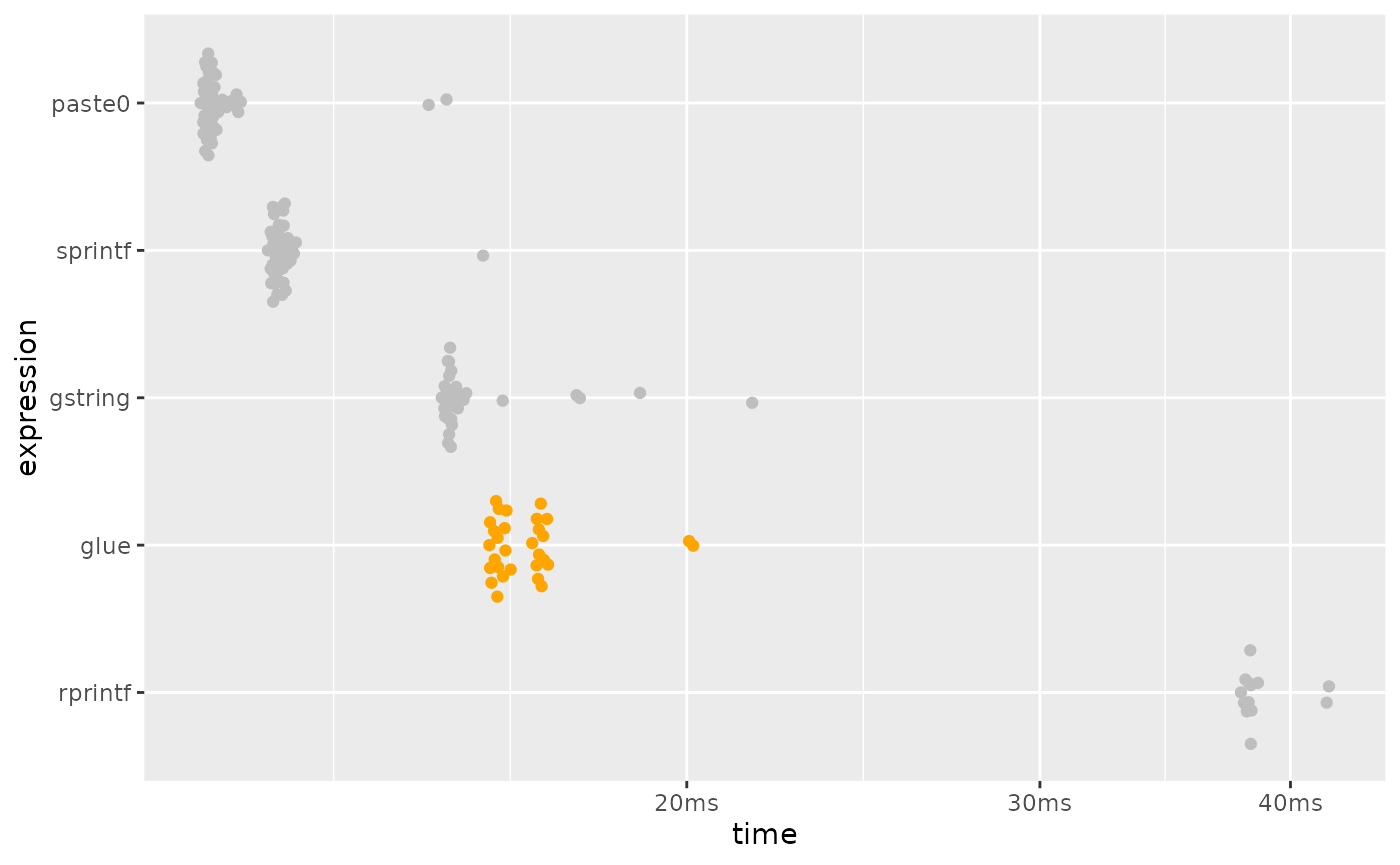
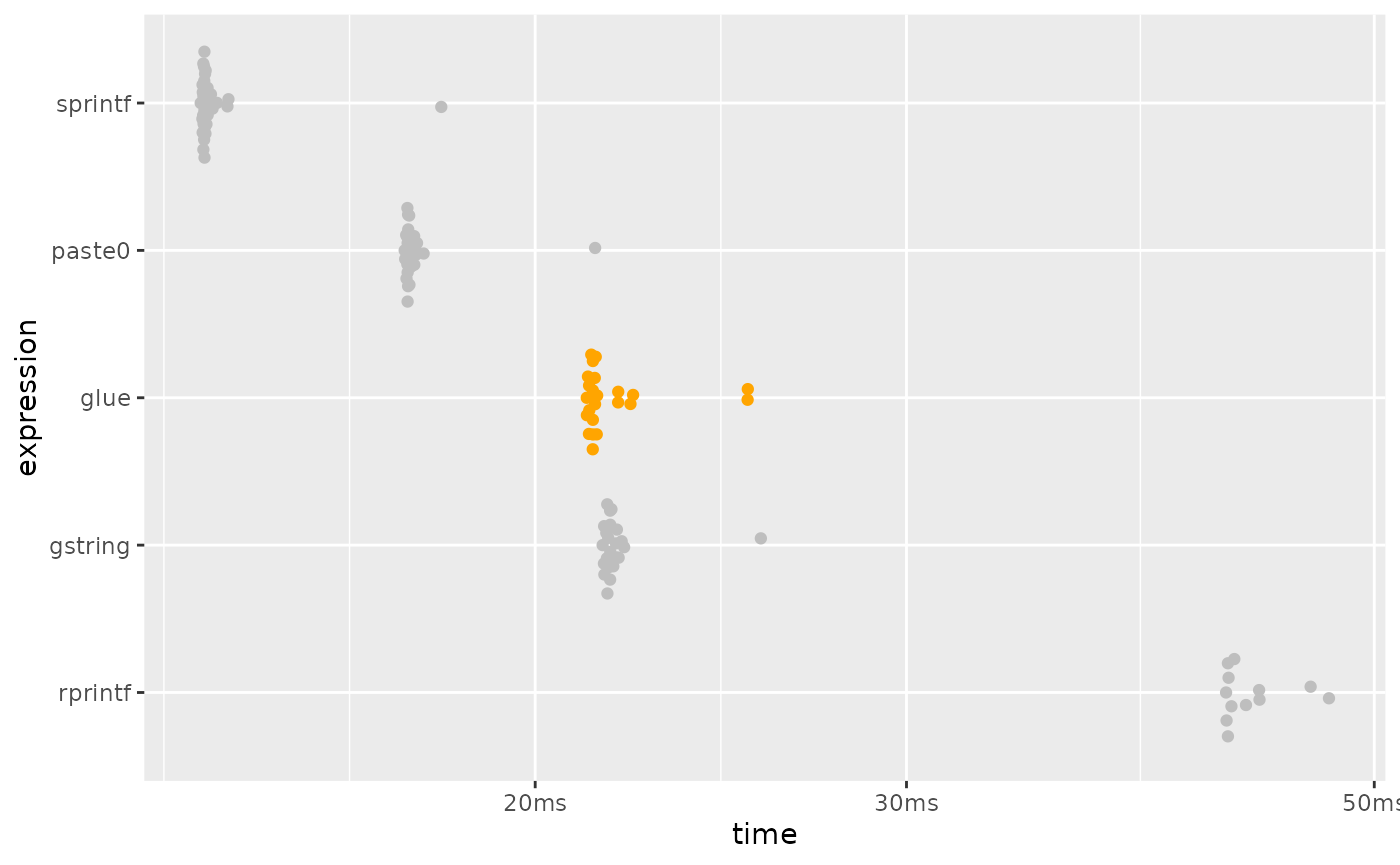
Deploying to gh-pages from @ tidyverse/glue@42d29d48a3cd86740ca8e59dbd9615e1e687b6ea 🚀

diff --git a/dev/articles/speed.html b/dev/articles/speed.html
@@ -166,11 +166,11 @@ this benchmark, but is now formally marked as “superseded”, in favor of
 <span><span class="co">#&gt; <span style="color: #949494;"># A tibble: 5 × 6</span></span></span>
 <span><span class="co">#&gt;   expression      min   median `itr/sec` mem_alloc `gc/sec`</span></span>
 <span><span class="co">#&gt;   <span style="color: #949494; font-style: italic;">&lt;bch:expr&gt;</span> <span style="color: #949494; font-style: italic;">&lt;bch:tm&gt;</span> <span style="color: #949494; font-style: italic;">&lt;bch:tm&gt;</span>     <span style="color: #949494; font-style: italic;">&lt;dbl&gt;</span> <span style="color: #949494; font-style: italic;">&lt;bch:byt&gt;</span>    <span style="color: #949494; font-style: italic;">&lt;dbl&gt;</span></span></span>
-<span><span class="co">#&gt; <span style="color: #BCBCBC;">1</span> sprintf     699.9ns    900ns  1<span style="text-decoration: underline;">003</span>528.        0B   100.  </span></span>
-<span><span class="co">#&gt; <span style="color: #BCBCBC;">2</span> paste0        1.6µs    1.8µs   <span style="text-decoration: underline;">520</span>689.        0B     0   </span></span>
-<span><span class="co">#&gt; <span style="color: #BCBCBC;">3</span> glue        101.3µs  107.8µs     <span style="text-decoration: underline;">9</span>148.  130.23KB    29.6 </span></span>
-<span><span class="co">#&gt; <span style="color: #BCBCBC;">4</span> gstring     251.3µs    262µs     <span style="text-decoration: underline;">3</span>752.    2.45MB    16.9 </span></span>
-<span><span class="co">#&gt; <span style="color: #BCBCBC;">5</span> rprintf     326.8µs  337.2µs     <span style="text-decoration: underline;">2</span>939.   78.16KB     8.23</span></span>
+<span><span class="co">#&gt; <span style="color: #BCBCBC;">1</span> sprintf       700ns    900ns  1<span style="text-decoration: underline;">021</span>339.        0B   102.  </span></span>
+<span><span class="co">#&gt; <span style="color: #BCBCBC;">2</span> paste0        1.7µs    1.9µs   <span style="text-decoration: underline;">497</span>484.        0B     0   </span></span>
+<span><span class="co">#&gt; <span style="color: #BCBCBC;">3</span> glue        109.8µs  118.7µs     <span style="text-decoration: underline;">8</span>145.  130.23KB    24.8 </span></span>
+<span><span class="co">#&gt; <span style="color: #BCBCBC;">4</span> gstring     336.4µs    348µs     <span style="text-decoration: underline;">2</span>845.    2.45MB    14.7 </span></span>
+<span><span class="co">#&gt; <span style="color: #BCBCBC;">5</span> rprintf     410.1µs  419.9µs     <span style="text-decoration: underline;">2</span>362.   78.16KB     6.13</span></span>
 <span></span>
 <span><span class="co"># plotting function defined in a hidden chunk</span></span>
 <span><span class="fu">plot_comparison</span><span class="op">(</span><span class="va">simple</span><span class="op">)</span></span></code></pre></div>
@@ -213,11 +213,11 @@ performance is much closer to that of <code><a href="https://rdrr.io/r/base/past
 <span><span class="co">#&gt; <span style="color: #949494;"># A tibble: 5 × 6</span></span></span>
 <span><span class="co">#&gt;   expression      min   median `itr/sec` mem_alloc `gc/sec`</span></span>
 <span><span class="co">#&gt;   <span style="color: #949494; font-style: italic;">&lt;bch:expr&gt;</span> <span style="color: #949494; font-style: italic;">&lt;bch:tm&gt;</span> <span style="color: #949494; font-style: italic;">&lt;bch:tm&gt;</span>     <span style="color: #949494; font-style: italic;">&lt;dbl&gt;</span> <span style="color: #949494; font-style: italic;">&lt;bch:byt&gt;</span>    <span style="color: #949494; font-style: italic;">&lt;dbl&gt;</span></span></span>
-<span><span class="co">#&gt; <span style="color: #BCBCBC;">1</span> paste0       11.4ms   11.6ms      86.1   781.3KB     4.20</span></span>
-<span><span class="co">#&gt; <span style="color: #BCBCBC;">2</span> sprintf      12.4ms   12.5ms      79.8   781.3KB     2.05</span></span>
-<span><span class="co">#&gt; <span style="color: #BCBCBC;">3</span> gstring      15.1ms   15.2ms      64.7    1.53MB     4.32</span></span>
-<span><span class="co">#&gt; <span style="color: #BCBCBC;">4</span> glue         15.9ms   16.2ms      60.8    2.29MB     4.34</span></span>
-<span><span class="co">#&gt; <span style="color: #BCBCBC;">5</span> rprintf      37.8ms   38.1ms      26.2    3.05MB     4.77</span></span>
+<span><span class="co">#&gt; <span style="color: #BCBCBC;">1</span> sprintf      13.9ms   13.9ms      71.6   781.3KB     2.04</span></span>
+<span><span class="co">#&gt; <span style="color: #BCBCBC;">2</span> paste0       17.3ms   17.4ms      57.3   781.3KB     2.05</span></span>
+<span><span class="co">#&gt; <span style="color: #BCBCBC;">3</span> glue         21.2ms   21.3ms      46.7    2.29MB     4.44</span></span>
+<span><span class="co">#&gt; <span style="color: #BCBCBC;">4</span> gstring      21.5ms   21.7ms      46.0    1.53MB     2.09</span></span>
+<span><span class="co">#&gt; <span style="color: #BCBCBC;">5</span> rprintf      42.5ms   42.7ms      23.2    3.05MB     4.65</span></span>
 <span></span>
 <span><span class="co"># plotting function defined in a hidden chunk</span></span>
 <span><span class="fu">plot_comparison</span><span class="op">(</span><span class="va">vectorized</span><span class="op">)</span></span></code></pre></div>

diff --git a/dev/news/index.html b/dev/news/index.html
@@ -66,7 +66,7 @@
 
     <div class="section level2">
 <h2 class="pkg-version" data-toc-text="development version" id="glue-development-version">glue (development version)<a class="anchor" aria-label="anchor" href="#glue-development-version"></a></h2>
-<ul><li><p><code>+</code> now works in more situations, and gives errors when one side isn’t a character vector. It no longer automatically applies glue interpolation to both sides; you’ll need to do that yourself as needed (<a href="https://github.com/tidyverse/glue/issues/286" class="external-link">#286</a>).</p></li>
+<ul><li><p><code>+</code> now works in more situations, and gives errors when one side isn’t a character vector. It no longer automatically applies glue interpolation to a non-glue input, if there is one. You’ll need to do that yourself (<a href="https://github.com/tidyverse/glue/issues/286" class="external-link">#286</a>).</p></li>
 <li><p><code>glue_collapse(character())</code> (and hence <code>glue_sql_collapse(character())</code>) now return <code>""</code>, so that they always return a single string (<a href="https://github.com/tidyverse/glue/issues/88" class="external-link">#88</a>).</p></li>
 <li><p><code><a href="../reference/glue_sql.html">glue_sql()</a></code> now collapses an empty vector to <code>""</code> not <code>"NULL"</code> (<a href="https://github.com/tidyverse/glue/issues/272" class="external-link">#272</a>).</p></li>
 <li><p><code><a href="../reference/glue_sql.html">glue_sql()</a></code> now uses <code><a href="https://dbi.r-dbi.org/reference/dbQuoteLiteral.html" class="external-link">DBI::dbQuoteLiteral()</a></code> for all object types. This should increase fidelity of escaping for different object types (<a href="https://github.com/tidyverse/glue/issues/279" class="external-link">#279</a>).</p></li>
